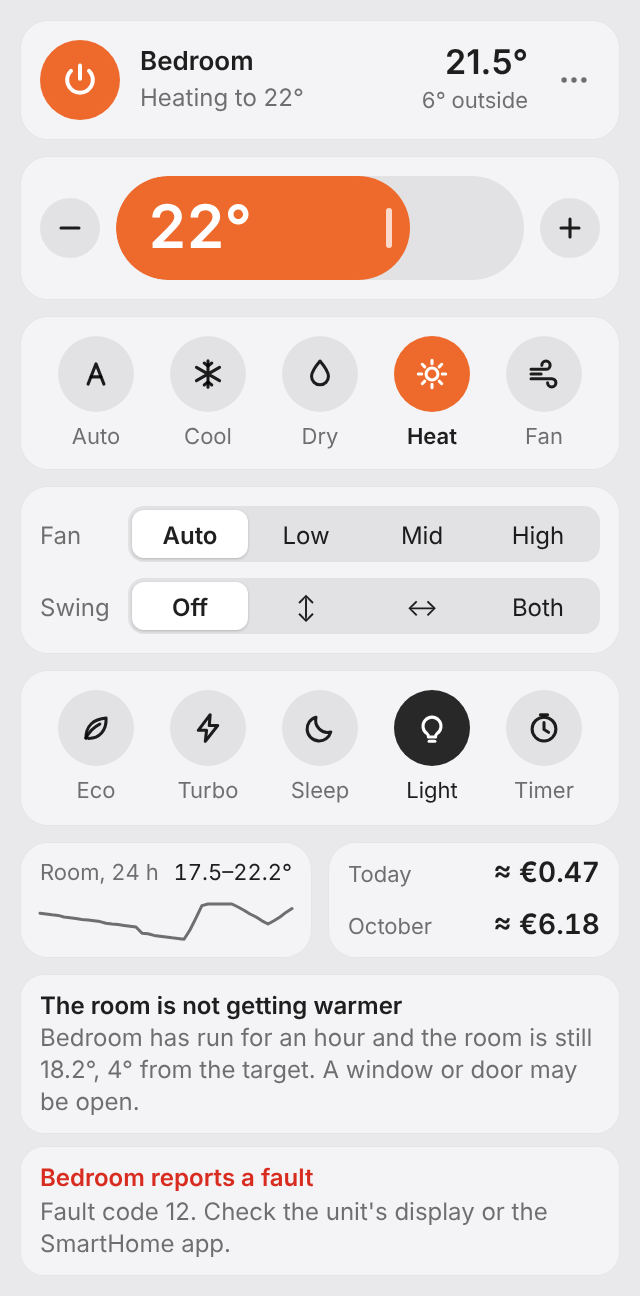
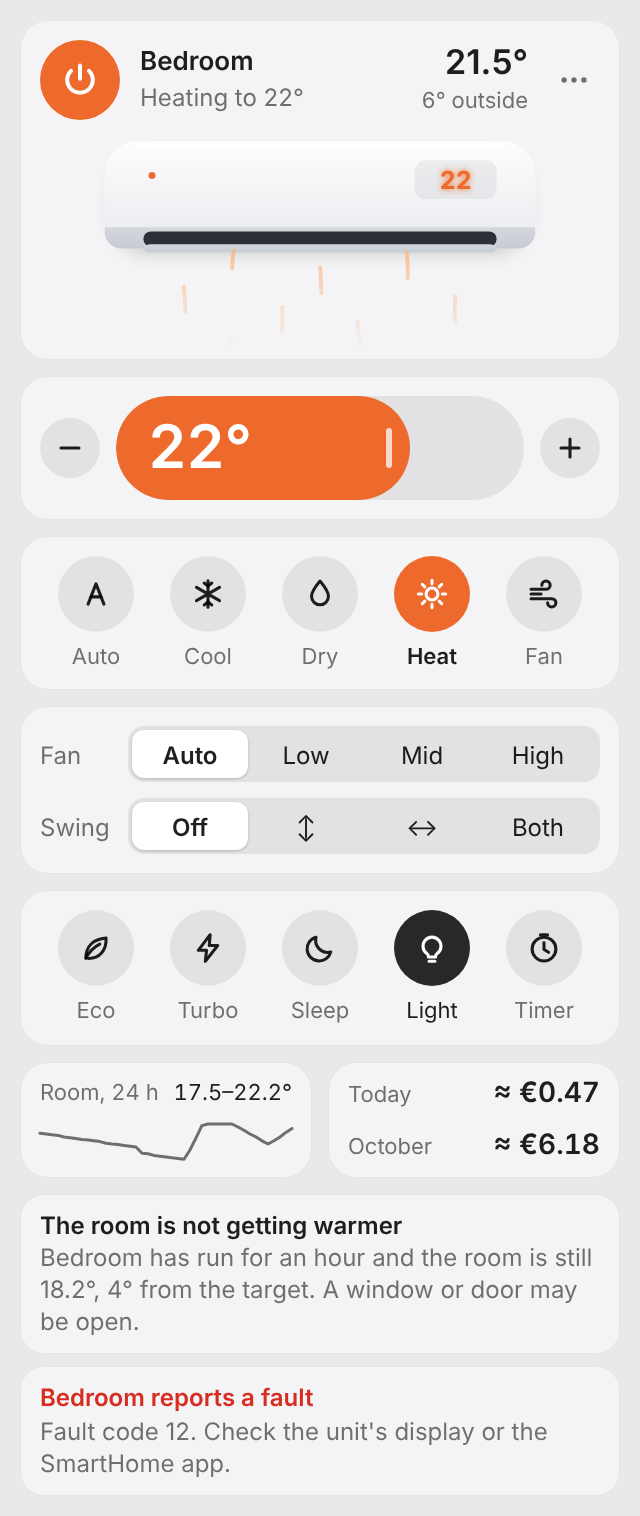
Draw the unit at the top of the popover
An illustrated air conditioner that mirrors the real one: the display shows
the target in the mode's colour, the flap opens, and air flows out faster
with fan speed and sways with swing. When off it is closed, dark and still.
Pure SVG and CSS, so nothing animates while the popover is closed.

diff --git a/src/renderer/style.css b/src/renderer/style.css
@@ -159,8 +159,149 @@ svg {
 
 .head {
   display: flex;
+  flex-direction: column;
+  gap: 2px;
+  padding-bottom: 4px;
+}
+
+.head-row {
+  display: flex;
   align-items: center;
   gap: 10px;
+}
+
+/* ── The unit ────────────────────────────────────────────────────────────── */
+
+.unit {
+  display: block;
+  width: 100%;
+  height: auto;
+  margin-top: 2px;
+  stroke: none;
+  overflow: visible;
+  /* The air takes the mode's colour, softened so it reads as air, not as a warning light. */
+  --air: #8ec5ff;
+  --flow: 1.4s;
+}
+
+body[data-mode="heat"] .unit { --air: #ffb27a; }
+body[data-mode="dry"] .unit { --air: #8fd6c6; }
+body[data-mode="fan"] .unit { --air: #cfd6df; }
+body[data-mode="auto"] .unit { --air: #b8afff; }
+
+/* Faster fan, faster air. */
+body[data-fan="silent"] .unit { --flow: 2.8s; }
+body[data-fan="low"] .unit { --flow: 2.1s; }
+body[data-fan="medium"] .unit { --flow: 1.5s; }
+body[data-fan="high"] .unit { --flow: 1.1s; }
+body[data-fan="max"] .unit { --flow: 0.8s; }
+
+/* A matte plastic body. In dark mode it is dimmed so it never glares from a dark menu bar. */
+.u-body-top { stop-color: #fdfdfd; }
+.u-body-bottom { stop-color: #e8eaee; }
+.u-lip-top { stop-color: #dde0e5; }
+.u-lip-bottom { stop-color: #c3c8cf; }
+.u-shadow { fill: rgba(0, 0, 0, 0.18); }
+.u-highlight { stroke: rgba(255, 255, 255, 0.9); stroke-width: 1.2; stroke-linecap: round; fill: none; }
+.u-window { fill: rgba(30, 40, 55, 0.06); }
+.u-vent { fill: #2b3038; }
+.u-led { fill: #c7cbd2; transition: fill 0.4s; }
+
+@media (prefers-color-scheme: dark) {
+  .u-body-top { stop-color: #d2d5da; }
+  .u-body-bottom { stop-color: #b2b7be; }
+  .u-lip-top { stop-color: #aab0b8; }
+  .u-lip-bottom { stop-color: #8c929b; }
+  .u-shadow { fill: rgba(0, 0, 0, 0.45); }
+  .u-highlight { stroke: rgba(255, 255, 255, 0.55); }
+  .u-window { fill: rgba(20, 25, 35, 0.1); }
+}
+
+.u-digits {
+  font: 700 11.5px var(--numerals);
+  font-variant-numeric: tabular-nums;
+  fill: var(--accent);
+  opacity: 0;
+  transition: opacity 0.4s;
+}
+
+/* The flap rests over the vent when off, and swings down and out when the unit runs. */
+.u-flap {
+  fill: url(#u-lip);
+  transform-box: fill-box;
+  transform-origin: 50% 0;
+  transition: transform 0.6s cubic-bezier(0.3, 0.7, 0.3, 1);
+}
+
+.u-air path {
+  fill: none;
+  stroke: var(--air);
+  stroke-width: 1.8;
+  stroke-linecap: round;
+  stroke-dasharray: 12 34;
+  opacity: 0;
+  transition: opacity 0.6s;
+  animation: air-flow var(--flow) linear infinite;
+  animation-play-state: paused;
+}
+
+/* Staggered as a share of the cycle, so the stagger holds at every fan speed. */
+.u-air path:nth-child(2) { animation-delay: calc(var(--flow) * -0.55); }
+.u-air path:nth-child(3) { animation-delay: calc(var(--flow) * -0.2); }
+.u-air path:nth-child(4) { animation-delay: calc(var(--flow) * -0.8); }
+.u-air path:nth-child(5) { animation-delay: calc(var(--flow) * -0.35); }
+.u-air path:nth-child(6) { animation-delay: calc(var(--flow) * -0.65); }
+.u-air path:nth-child(7) { animation-delay: calc(var(--flow) * -0.1); }
+
+.u-air-sway {
+  transform-box: view-box;
+  transform-origin: 130px 57px;
+}
+
+@keyframes air-flow {
+  from { stroke-dashoffset: 0; }
+  to { stroke-dashoffset: -46; }
+}
+
+/* Swing: side to side, up and down (the streaks reach further, then shorter), or both. */
+@keyframes sway-side {
+  0%, 100% { transform: skewX(-9deg); }
+  50% { transform: skewX(9deg); }
+}
+
+@keyframes sway-up {
+  0%, 100% { transform: scaleY(0.82); }
+  50% { transform: scaleY(1.06); }
+}
+
+@keyframes sway-both {
+  0%, 100% { transform: skewX(-9deg) scaleY(0.82); }
+  50% { transform: skewX(9deg) scaleY(1.06); }
+}
+
+/* Running. */
+body[data-power="on"] .u-led { fill: var(--accent); }
+body[data-power="on"][data-display="on"] .u-digits { opacity: 1; }
+body[data-power="on"] .u-flap { transform: translateY(6px) scaleY(0.55); }
+body[data-power="on"] .u-air path { opacity: 0.75; animation-play-state: running; }
+body[data-power="on"][data-swing="horizontal"] .u-air-sway { animation: sway-side 3.2s ease-in-out infinite; }
+body[data-power="on"][data-swing="vertical"] .u-air-sway { animation: sway-up 3.2s ease-in-out infinite; }
+body[data-power="on"][data-swing="both"] .u-air-sway { animation: sway-both 3.2s ease-in-out infinite; }
+
+/* Off: the body steps back a little, no light, no air. */
+body[data-power="off"] .unit .u-body,
+body[data-power="off"] .unit .u-lip {
+  opacity: 0.88;
+}
+
+@media (prefers-reduced-motion: reduce) {
+  .u-air path,
+  .u-air-sway {
+    animation: none !important;
+  }
+  .u-flap {
+    transition: none;
+  }
 }
 
 .power {

diff --git a/src/renderer/index.html b/src/renderer/index.html
@@ -29,6 +29,7 @@
 
     <main id="controls" hidden>
       <header class="tile head">
+        <div class="head-row">
         <button id="power" class="power" role="switch" aria-checked="false" aria-label="Power">
           <svg><use href="#i-power" /></svg>
         </button>
@@ -44,6 +45,66 @@
         <button class="icon more" data-menu aria-label="Settings" title="Settings">
           <svg><use href="#i-more" /></svg>
         </button>
+        </div>
+
+        <!-- The unit itself. Drawn, not 3D: shading does the depth, CSS does the motion,
+             and nothing animates while the popover is closed. State comes from data
+             attributes on <body>; the words above already say all of it for screen readers. -->
+        <svg class="unit" viewBox="0 0 260 104" aria-hidden="true">
+          <defs>
+            <linearGradient id="u-body" gradientUnits="userSpaceOnUse" x1="0" y1="6" x2="0" y2="56">
+              <stop offset="0" class="u-body-top" />
+              <stop offset="1" class="u-body-bottom" />
+            </linearGradient>
+            <linearGradient id="u-lip" gradientUnits="userSpaceOnUse" x1="0" y1="40" x2="0" y2="58">
+              <stop offset="0" class="u-lip-top" />
+              <stop offset="1" class="u-lip-bottom" />
+            </linearGradient>
+            <linearGradient id="u-fade" x1="0" y1="0" x2="0" y2="1">
+              <stop offset="0" stop-color="#fff" stop-opacity="1" />
+              <stop offset="1" stop-color="#fff" stop-opacity="0" />
+            </linearGradient>
+            <mask id="u-air-mask"><rect x="0" y="56" width="260" height="48" fill="url(#u-fade)" /></mask>
+            <filter id="u-glow" x="-50%" y="-50%" width="200%" height="200%">
+              <feGaussianBlur stdDeviation="1.6" result="b" />
+              <feMerge><feMergeNode in="b" /><feMergeNode in="SourceGraphic" /></feMerge>
+            </filter>
+            <filter id="u-shadow" x="-20%" y="-50%" width="140%" height="200%">
+              <feGaussianBlur stdDeviation="4" />
+            </filter>
+          </defs>
+
+          <!-- Soft shadow on the wall behind it. -->
+          <rect class="u-shadow" x="34" y="14" width="192" height="44" rx="16" filter="url(#u-shadow)" />
+
+          <!-- Body, with a highlight along the top edge and a darker band at the bottom for the curve. -->
+          <rect class="u-body" x="30" y="6" width="200" height="50" rx="16" fill="url(#u-body)" />
+          <path class="u-highlight" d="M46 8.5 H214" />
+          <rect class="u-lip" x="30" y="40" width="200" height="16" rx="8" fill="url(#u-lip)" />
+          <rect class="u-body" x="30" y="34" width="200" height="12" fill="url(#u-body)" />
+
+          <!-- Status dot and the display window. -->
+          <circle class="u-led" cx="52" cy="22" r="1.6" />
+          <rect class="u-window" x="174" y="15" width="38" height="18" rx="5" />
+          <text id="unit-digits" class="u-digits" x="193" y="28.5" text-anchor="middle" filter="url(#u-glow)"></text>
+
+          <!-- The vent, and the flap that closes over it when the unit is off. -->
+          <rect class="u-vent" x="48" y="48" width="164" height="7" rx="3.5" />
+          <rect class="u-flap" x="48" y="48" width="164" height="7" rx="3.5" />
+
+          <!-- Air. Seven streaks, each with its own path and delay (see style.css), so the flow never looks like one block moving. -->
+          <g class="u-air" mask="url(#u-air-mask)">
+            <g class="u-air-sway">
+              <path d="M68 57 C 63 70, 72 84, 64 102" />
+              <path d="M90 57 C 87 72, 94 86, 88 102" />
+              <path d="M112 57 C 110 70, 115 86, 111 102" />
+              <path d="M130 57 C 130 72, 132 86, 130 102" />
+              <path d="M148 57 C 150 70, 145 86, 149 102" />
+              <path d="M170 57 C 173 72, 166 86, 172 102" />
+              <path d="M192 57 C 197 70, 188 84, 196 102" />
+            </g>
+          </g>
+        </svg>
       </header>
 
       <section class="tile temp">

diff --git a/src/renderer/renderer.ts b/src/renderer/renderer.ts
@@ -479,6 +479,11 @@ function renderControls(s: AcState): void {
   const caps = snap!.caps!;
   document.body.dataset.mode = s.mode;
   document.body.dataset.power = s.power ? "on" : "off";
+  // The drawing of the unit reads these: air speed, swing and the display light.
+  document.body.dataset.fan = s.fan;
+  document.body.dataset.swing = s.swing;
+  document.body.dataset.display = s.display || !caps.display ? "on" : "off";
+  $("unit-digits").textContent = s.mode === "fan" ? "FA" : String(Math.round(s.target));
 
   $("power").setAttribute("aria-checked", String(s.power));
   $("doing").textContent = !s.power

diff --git a/README.md b/README.md
@@ -32,6 +32,12 @@ Move `MideaBar.app` to your Applications folder and open it. On first launch it 
 for the unit, asks macOS for Local Network access, and asks once for the SmartHome
 sign-in of the account that owns the unit (step 2 of "How it works" explains why).
 
+- **A drawing of the unit** at the top shows what it is doing: the display lights up with
+  the target, the flap opens and air streams out in the mode's colour, faster with fan
+  speed and swaying with swing. Off means closed, dark and still.
+
+  <img src="docs/unit.gif" width="320" alt="The drawn unit with air flowing out" />
+
 - Click the menu bar icon: power, a draggable temperature slider (half degrees where the
   unit takes them), mode, fan, swing, eco, turbo, sleep, the unit's display light, and an
   off timer. Room and outside temperature sit at the top, power draw at the bottom.
